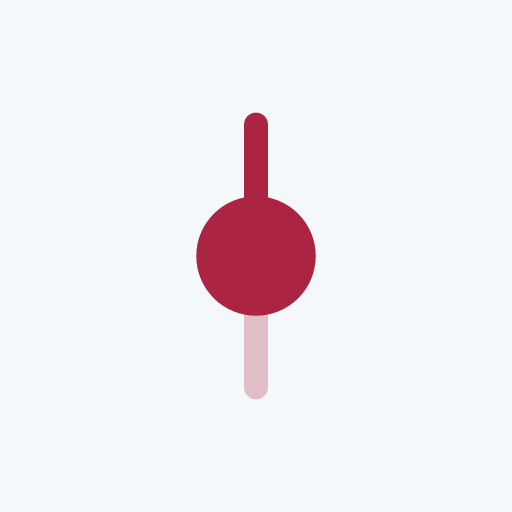
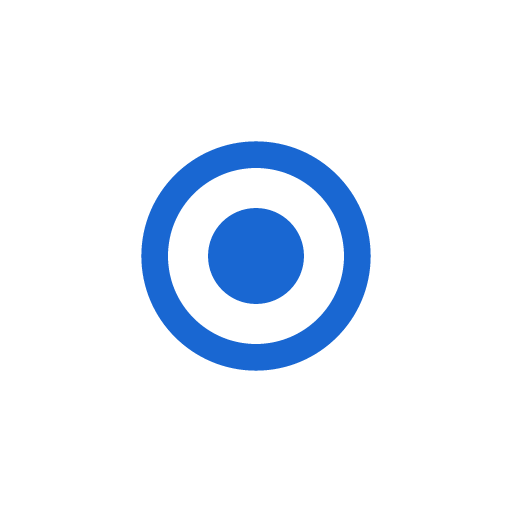
feat(web): draw the Singularity mark and wordmark
The mark is a ringed dot, the same figure as the play chip's glyph. The app
icons and the favicon are regenerated from it, and the covers carry the new
wordmark.

Changed region(s): [[0.25, 0.2188, 0.75, 0.7812]]

diff --git a/scripts/buildIcons.ts b/scripts/buildIcons.ts
@@ -1,4 +1,4 @@
-import { mkdirSync, writeFileSync } from "node:fs";
+import { existsSync, mkdirSync, readFileSync, writeFileSync } from "node:fs";
 import { dirname, join, resolve } from "node:path";
 import { fileURLToPath } from "node:url";
 import { Resvg } from "@resvg/resvg-js";
@@ -6,19 +6,21 @@ import { type BrandColors, readBrandColors } from "../apps/web/src/lib/brandColo
 
 /**
  * Renders the app icon from one SVG mark, so every size comes from the same artwork and can never
- * drift. The mark is the rail with its current node: a line, its upper half at full strength, and a
- * node at the midpoint. It is drawn in the accent color on the surface color. Every PNG is opaque,
+ * drift. The mark is a ringed dot: a point inside a circle, the same figure as the ringed play
+ * glyph on the play chip. It is drawn in the accent color on the surface color. Every PNG is opaque,
  * because iOS composites transparency onto black and applies its own corner mask.
  *
- * Outputs go to apps/web/public/. Run: npx tsx scripts/buildIcons.ts
+ * Outputs go to apps/web/public/.
+ *   npm run icons              writes the files
+ *   npm run icons -- --check   fails when a committed file is stale
  */
 
 const HERE = dirname(fileURLToPath(import.meta.url));
 const OUT = join(HERE, "..", "apps", "web", "public");
 const TOKENS = join(HERE, "..", "apps", "web", "src", "styles", "tokens.css");
 
-/** The mark's own box, in the units of the brand SVG (16 wide, 24 tall). */
-const MARK = { width: 16, height: 24 } as const;
+/** The mark's own box, in the units of the brand SVG. */
+const MARK = { width: 24, height: 24 } as const;
 
 export interface IconSpec {
   file: string;
@@ -28,18 +30,22 @@ export interface IconSpec {
 }
 
 export const ICON_SPECS: readonly IconSpec[] = [
-  { file: "apple-touch-icon.png", size: 180, markShare: 0.56 },
-  { file: "icon-192.png", size: 192, markShare: 0.56 },
-  { file: "icon-512.png", size: 512, markShare: 0.56 },
+  { file: "apple-touch-icon.png", size: 180, markShare: 0.5 },
+  { file: "icon-192.png", size: 192, markShare: 0.5 },
+  { file: "icon-512.png", size: 512, markShare: 0.5 },
   // Android crops a maskable icon to a circle that can be as small as 80 percent of its box.
   { file: "icon-maskable-512.png", size: 512, markShare: 0.42 },
 ];
 
+/** The ring as one even-odd path, so the whole mark takes a single fill and needs no stroke. */
+export const MARK_RING =
+  "M12 1.25a10.75 10.75 0 1 0 0 21.5 10.75 10.75 0 0 0 0-21.5Zm0 2.5a8.25 8.25 0 1 1 0 16.5 8.25 8.25 0 0 1 0-16.5Z";
+export const MARK_DOT_RADIUS = 4.5;
+
 function markPaths(): string {
   return (
-    '<rect x="7" y="0" width="2" height="24" rx="1" opacity=".28"/>' +
-    '<rect x="7" y="0" width="2" height="12" rx="1"/>' +
-    '<circle cx="8" cy="12" r="5"/>'
+    `<path fill-rule="evenodd" d="${MARK_RING}"/>` +
+    `<circle cx="12" cy="12" r="${MARK_DOT_RADIUS}"/>`
   );
 }
 
@@ -59,8 +65,8 @@ export function iconSvg(colors: BrandColors, size: number, markShare: number): s
 /** Browser-tab icon: the bare mark on a transparent ground, in the accent color for each scheme. */
 export function faviconSvg(colors: BrandColors): string {
   return (
-    '<svg xmlns="http://www.w3.org/2000/svg" viewBox="0 0 16 24">' +
-    `<title>Dispatch</title><style>g{fill:${colors.accentLight}}@media (prefers-color-scheme:dark){g{fill:${colors.accentDark}}}</style>` +
+    '<svg xmlns="http://www.w3.org/2000/svg" viewBox="0 0 24 24">' +
+    `<title>Singularity</title><style>g{fill:${colors.accentLight}}@media (prefers-color-scheme:dark){g{fill:${colors.accentDark}}}</style>` +
     `<g>${markPaths()}</g></svg>\n`
   );
 }
@@ -83,20 +89,45 @@ export function renderIcon(svg: string, size: number): RenderedIcon {
   };
 }
 
-export function buildIcons(outDir: string = OUT, tokensPath: string = TOKENS): string[] {
+/** Every output file with the bytes it should hold, in a fixed order. */
+export function iconFiles(tokensPath: string = TOKENS): Array<[file: string, bytes: Uint8Array]> {
   const colors = readBrandColors(tokensPath);
+  const files: Array<[string, Uint8Array]> = ICON_SPECS.map((spec) => [
+    spec.file,
+    renderIcon(iconSvg(colors, spec.size, spec.markShare), spec.size).png,
+  ]);
+  files.push(["favicon.svg", new TextEncoder().encode(faviconSvg(colors))]);
+  return files;
+}
+
+export function buildIcons(outDir: string = OUT, tokensPath: string = TOKENS): string[] {
   mkdirSync(outDir, { recursive: true });
   const written: string[] = [];
-  for (const spec of ICON_SPECS) {
-    const { png } = renderIcon(iconSvg(colors, spec.size, spec.markShare), spec.size);
-    writeFileSync(join(outDir, spec.file), png);
-    written.push(spec.file);
+  for (const [file, bytes] of iconFiles(tokensPath)) {
+    writeFileSync(join(outDir, file), bytes);
+    written.push(file);
   }
-  writeFileSync(join(outDir, "favicon.svg"), faviconSvg(colors));
-  written.push("favicon.svg");
   return written;
 }
 
+/** Files in `outDir` that are missing or differ from what the tokens and the mark now produce. */
+export function staleIcons(outDir: string = OUT, tokensPath: string = TOKENS): string[] {
+  const stale: string[] = [];
+  for (const [file, bytes] of iconFiles(tokensPath)) {
+    const path = join(outDir, file);
+    if (!existsSync(path) || !Buffer.from(bytes).equals(readFileSync(path))) stale.push(file);
+  }
+  return stale;
+}
+
 if (process.argv[1] && resolve(process.argv[1]) === fileURLToPath(import.meta.url)) {
-  console.log(`Wrote ${buildIcons().join(", ")} to ${OUT}`);
+  if (process.argv.includes("--check")) {
+    const stale = staleIcons();
+    if (stale.length > 0) {
+      console.error(`Stale app icons: ${stale.join(", ")}. Run: npm run icons`);
+      process.exit(1);
+    }
+  } else {
+    console.log(`Wrote ${buildIcons().join(", ")} to ${OUT}`);
+  }
 }

diff --git a/scripts/buildIcons.test.ts b/scripts/buildIcons.test.ts
@@ -3,7 +3,16 @@ import { tmpdir } from "node:os";
 import { join } from "node:path";
 import { afterEach, describe, expect, it } from "vitest";
 import { parseBrandColors } from "../apps/web/src/lib/brandColors";
-import { buildIcons, faviconSvg, ICON_SPECS, iconSvg, renderIcon } from "./buildIcons";
+import {
+  buildIcons,
+  faviconSvg,
+  ICON_SPECS,
+  iconSvg,
+  MARK_DOT_RADIUS,
+  MARK_RING,
+  renderIcon,
+  staleIcons,
+} from "./buildIcons";
 
 const TOKENS = join(import.meta.dirname, "..", "apps", "web", "src", "styles", "tokens.css");
 const colors = parseBrandColors(readFileSync(TOKENS, "utf8"));
@@ -42,15 +51,28 @@ describe("app icons", () => {
 
   it("keeps the maskable mark inside the central safe zone", () => {
     const maskable = ICON_SPECS.find((spec) => spec.file === "icon-maskable-512.png");
-    // The rail's ends are half the mark height from the center; the circle radius is 40 percent.
+    // The ring's edge is half the mark height from the center; the circle radius is 40 percent.
     expect((maskable?.markShare ?? 1) / 2).toBeLessThanOrEqual(0.4);
   });
 
-  it("makes a favicon that follows the color scheme", () => {
+  it("makes a favicon that follows the color scheme and carries the product name", () => {
     const svg = faviconSvg(colors);
     expect(svg).toContain(colors.accentLight);
     expect(svg).toContain(colors.accentDark);
     expect(svg).toContain("prefers-color-scheme:dark");
+    expect(svg).toContain("<title>Singularity</title>");
+  });
+
+  it("draws the mark as a ringed dot: a point inside a circle, with a clear gap between them", () => {
+    const svg = iconSvg(colors, 512, 0.5);
+    expect(svg).toContain(MARK_RING);
+    expect(svg).toContain(`r="${MARK_DOT_RADIUS}"`);
+    // Inner edge of the ring is 8.25 from the centre; the dot must stay well inside it.
+    expect(MARK_DOT_RADIUS).toBeLessThan(8.25 - 2);
+  });
+
+  it("matches the icons committed under apps/web/public", () => {
+    expect(staleIcons(), "run npm run icons").toEqual([]);
   });
 
   it("writes the icon files", () => {

diff --git a/packages/cover/src/templates.test.ts b/packages/cover/src/templates.test.ts
@@ -86,11 +86,11 @@ describe.each(TEMPLATES)("template %s", (template) => {
   it("carries only the date and the wordmark as text", () => {
     const strings = [...svg.matchAll(/<text[^>]*>([^<]*)<\/text>/g)].map((m) => m[1]);
     const day = "6";
-    const allowed = new Set([...day, "October", "Dispatch"]);
+    const allowed = new Set([...day, "October", "Singularity"]);
     expect(strings.length).toBeGreaterThanOrEqual(3);
     for (const text of strings)
       expect(allowed.has(text as string), `unexpected text "${text}"`).toBe(true);
-    expect(strings).toContain("Dispatch");
+    expect(strings).toContain("Singularity");
     expect(strings).toContain("October");
     expect(strings).toContain("6");
   });

diff --git a/packages/cover/src/render.ts b/packages/cover/src/render.ts
@@ -57,7 +57,7 @@ function compose(spec: CoverSpec, meta: CoverMeta, w: number, h: number): string
   const defs = `${out.defs ?? ""}${ctx.weekly ? `<clipPath id="${plateClip}"><path d="${rectPath(area)}"/></clipPath>` : ""}`;
   const art = ctx.weekly ? `<g clip-path="url(#${plateClip})">${out.body}</g>` : out.body;
   const type = out.lockup === "own" ? "" : lockup.markup(pal);
-  const label = `Dispatch, ${ctx.day} ${ctx.monthName}`;
+  const label = `Singularity, ${ctx.day} ${ctx.monthName}`;
   return (
     `<svg xmlns="http://www.w3.org/2000/svg" viewBox="0 0 ${w} ${h}" width="${w}" height="${h}" role="img" aria-label="${label}">` +
     `<title>${label}</title>` +

diff --git a/packages/cover/src/render.test.ts b/packages/cover/src/render.test.ts
@@ -107,6 +107,6 @@ describe("renderCoverSvg", () => {
   it("describes itself for assistive tech without adding visible text", () => {
     const svg = renderCoverSvg(SPEC, META);
     expect(svg).toContain('role="img"');
-    expect(svg).toContain('aria-label="Dispatch, 6 October"');
+    expect(svg).toContain('aria-label="Singularity, 6 October"');
   });
 });

diff --git a/packages/cover/src/lockup.ts b/packages/cover/src/lockup.ts
@@ -6,7 +6,7 @@ import type { Corner, Palette, Rect } from "./types.js";
 /** The one fixed piece of typography on every cover: day numeral, month and the wordmark. */
 
 export const MARGIN_UNITS = 88;
-export const WORDMARK = "Dispatch";
+export const WORDMARK = "Singularity";
 
 const NUMERAL_SIZE = 236;
 const NUMERAL_WEIGHT: NumeralWeight = 900;

diff --git a/packages/cover/src/index.ts b/packages/cover/src/index.ts
@@ -1,5 +1,5 @@
 /**
- * Generated album-style covers for Dispatch digests. Every cover is a pure function of its spec and
+ * Generated album-style covers for Singularity briefings. Every cover is a pure function of its spec and
  * date, so the same digest always yields the same bytes. See docs/build-plan.md section 8.11.
  */
 
